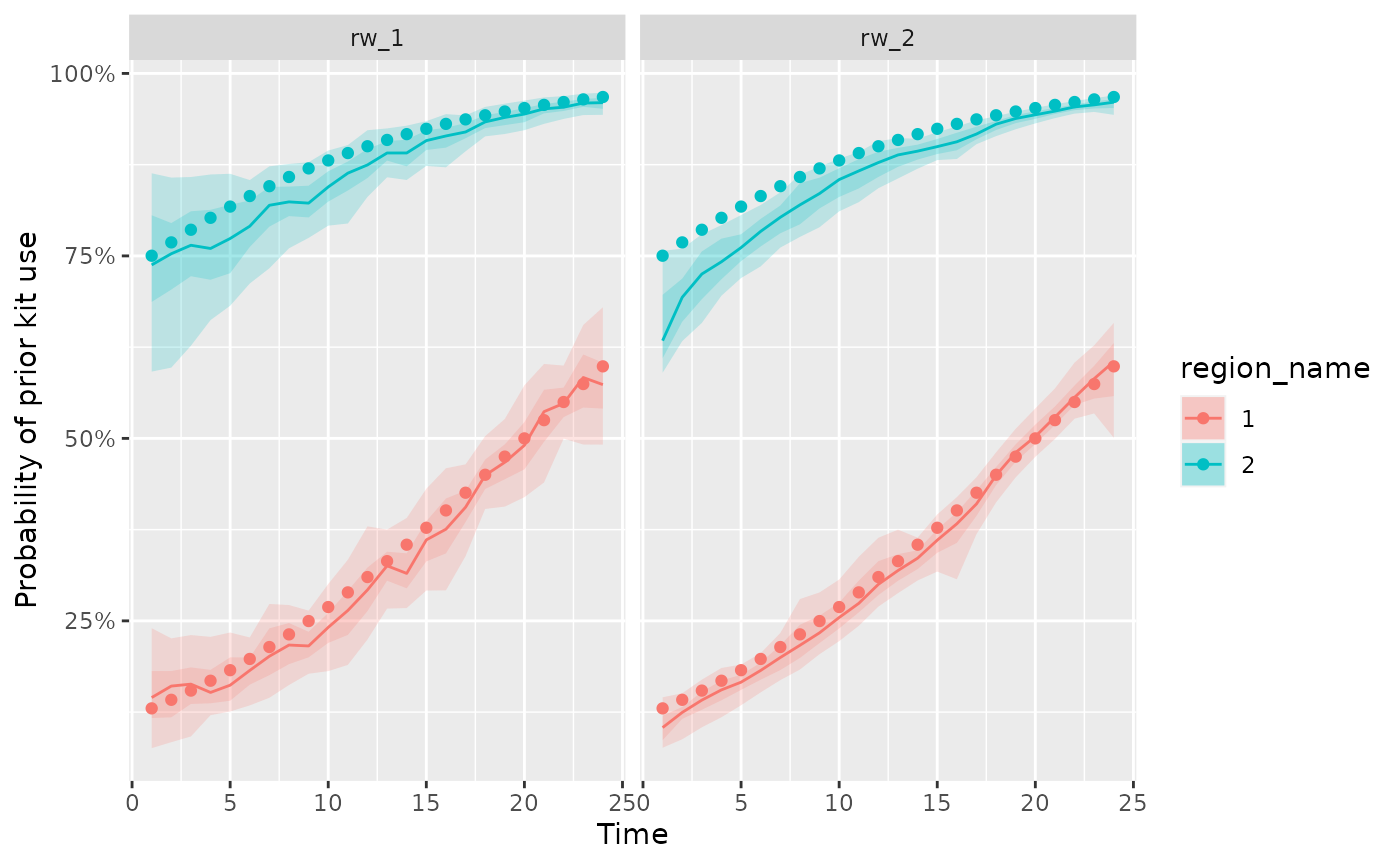
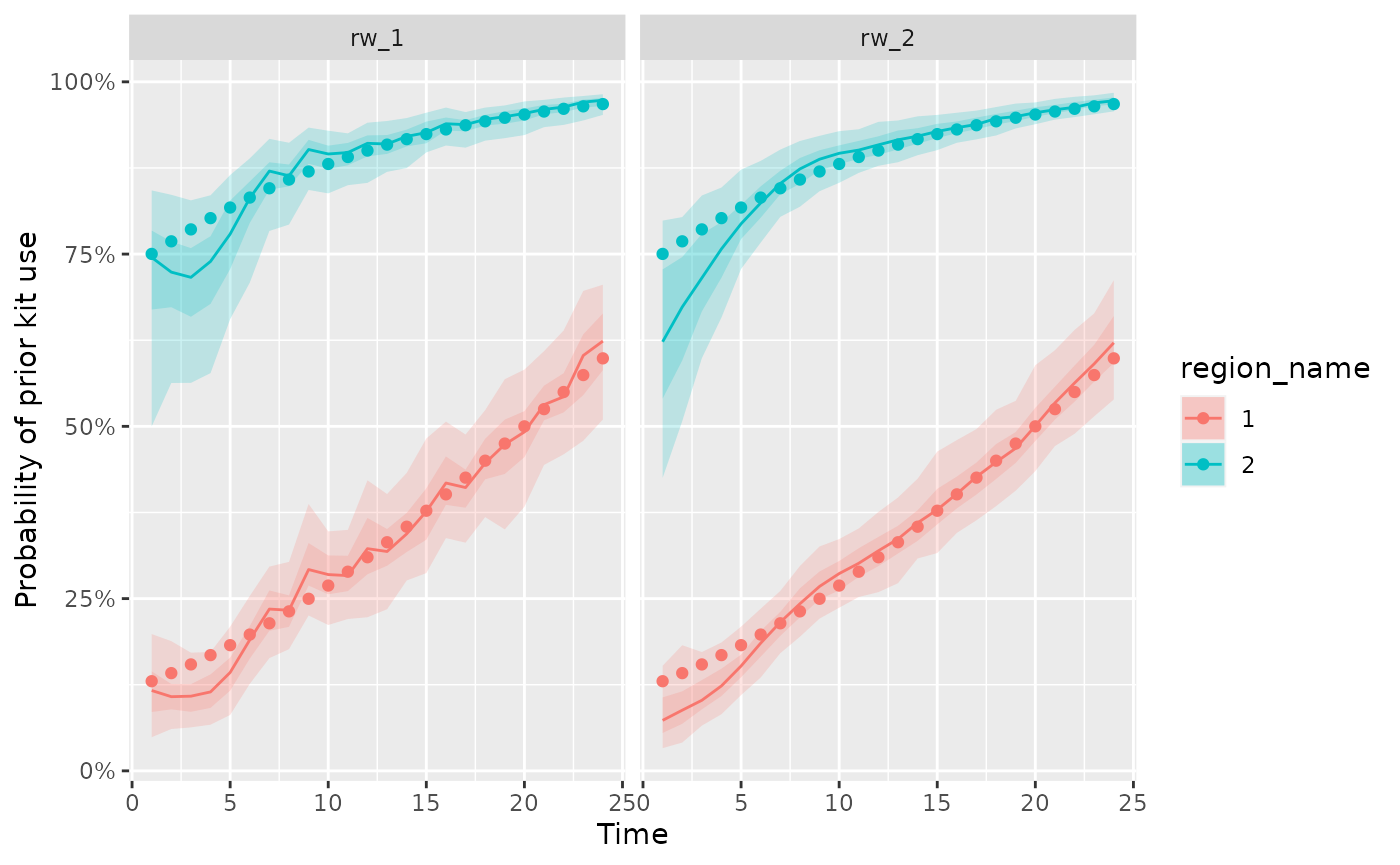
Deploying to gh-pages from @ sempwn/bennu@6ce00d99210b6d67dd7d910215781d94dfb5f930 🚀

diff --git a/articles/Introduction.html b/articles/Introduction.html
@@ -135,9 +135,11 @@
 <span><span class="co">#&gt; <span style="color: #555555;">This warning is displayed once every 8 hours.</span></span></span>
 <span><span class="co">#&gt; <span style="color: #555555;">Call `lifecycle::last_lifecycle_warnings()` to see where this warning was</span></span></span>
 <span><span class="co">#&gt; <span style="color: #555555;">generated.</span></span></span>
-<span><span class="co">#&gt; Warning: There were 39 divergent transitions after warmup. See</span></span>
+<span><span class="co">#&gt; Warning: There were 32 divergent transitions after warmup. See</span></span>
 <span><span class="co">#&gt; https://mc-stan.org/misc/warnings.html#divergent-transitions-after-warmup</span></span>
 <span><span class="co">#&gt; to find out why this is a problem and how to eliminate them.</span></span>
+<span><span class="co">#&gt; Warning: There were 3 chains where the estimated Bayesian Fraction of Missing Information was low. See</span></span>
+<span><span class="co">#&gt; https://mc-stan.org/misc/warnings.html#bfmi-low</span></span>
 <span><span class="co">#&gt; Warning: Examine the pairs() plot to diagnose sampling problems</span></span>
 <span><span class="co">#&gt; Warning: The largest R-hat is NA, indicating chains have not mixed.</span></span>
 <span><span class="co">#&gt; Running the chains for more iterations may help. See</span></span>
@@ -172,18 +174,18 @@
 <span></span>
 <span><span class="fu"><a href="https://mc-stan.org/posterior/reference/draws_summary.html" class="external-link">summarise_draws</a></span><span class="op">(</span><span class="va">fit</span>, <span class="fu"><a href="https://mc-stan.org/posterior/reference/draws_summary.html" class="external-link">default_summary_measures</a></span><span class="op">(</span><span class="op">)</span><span class="op">)</span></span>
 <span><span class="co">#&gt; <span style="color: #949494;"># A tibble: 462 × 7</span></span></span>
-<span><span class="co">#&gt;    variable  mean median    sd   mad    q5    q95</span></span>
-<span><span class="co">#&gt;    <span style="color: #949494; font-style: italic;">&lt;chr&gt;</span>    <span style="color: #949494; font-style: italic;">&lt;num&gt;</span>  <span style="color: #949494; font-style: italic;">&lt;num&gt;</span> <span style="color: #949494; font-style: italic;">&lt;num&gt;</span> <span style="color: #949494; font-style: italic;">&lt;num&gt;</span> <span style="color: #949494; font-style: italic;">&lt;num&gt;</span>  <span style="color: #949494; font-style: italic;">&lt;num&gt;</span></span></span>
-<span><span class="co">#&gt; <span style="color: #BCBCBC;"> 1</span> logp[1]  -<span style="color: #BB0000;">1.78</span>  -<span style="color: #BB0000;">1.82</span> 0.393 0.330 -<span style="color: #BB0000;">2.44</span> -<span style="color: #BB0000;">1.09</span> </span></span>
-<span><span class="co">#&gt; <span style="color: #BCBCBC;"> 2</span> logp[2]  -<span style="color: #BB0000;">1.78</span>  -<span style="color: #BB0000;">1.71</span> 0.352 0.365 -<span style="color: #BB0000;">2.41</span> -<span style="color: #BB0000;">1.30</span> </span></span>
-<span><span class="co">#&gt; <span style="color: #BCBCBC;"> 3</span> logp[3]  -<span style="color: #BB0000;">1.66</span>  -<span style="color: #BB0000;">1.63</span> 0.324 0.281 -<span style="color: #BB0000;">2.31</span> -<span style="color: #BB0000;">1.21</span> </span></span>
-<span><span class="co">#&gt; <span style="color: #BCBCBC;"> 4</span> logp[4]  -<span style="color: #BB0000;">1.67</span>  -<span style="color: #BB0000;">1.72</span> 0.215 0.181 -<span style="color: #BB0000;">1.98</span> -<span style="color: #BB0000;">1.24</span> </span></span>
-<span><span class="co">#&gt; <span style="color: #BCBCBC;"> 5</span> logp[5]  -<span style="color: #BB0000;">1.61</span>  -<span style="color: #BB0000;">1.66</span> 0.254 0.272 -<span style="color: #BB0000;">1.93</span> -<span style="color: #BB0000;">1.20</span> </span></span>
-<span><span class="co">#&gt; <span style="color: #BCBCBC;"> 6</span> logp[6]  -<span style="color: #BB0000;">1.53</span>  -<span style="color: #BB0000;">1.53</span> 0.164 0.145 -<span style="color: #BB0000;">1.80</span> -<span style="color: #BB0000;">1.27</span> </span></span>
-<span><span class="co">#&gt; <span style="color: #BCBCBC;"> 7</span> logp[7]  -<span style="color: #BB0000;">1.35</span>  -<span style="color: #BB0000;">1.37</span> 0.268 0.282 -<span style="color: #BB0000;">1.75</span> -<span style="color: #BB0000;">0.993</span></span></span>
-<span><span class="co">#&gt; <span style="color: #BCBCBC;"> 8</span> logp[8]  -<span style="color: #BB0000;">1.29</span>  -<span style="color: #BB0000;">1.31</span> 0.222 0.264 -<span style="color: #BB0000;">1.67</span> -<span style="color: #BB0000;">0.954</span></span></span>
-<span><span class="co">#&gt; <span style="color: #BCBCBC;"> 9</span> logp[9]  -<span style="color: #BB0000;">1.27</span>  -<span style="color: #BB0000;">1.28</span> 0.102 0.101 -<span style="color: #BB0000;">1.42</span> -<span style="color: #BB0000;">1.10</span> </span></span>
-<span><span class="co">#&gt; <span style="color: #BCBCBC;">10</span> logp[10] -<span style="color: #BB0000;">1.15</span>  -<span style="color: #BB0000;">1.11</span> 0.226 0.182 -<span style="color: #BB0000;">1.56</span> -<span style="color: #BB0000;">0.781</span></span></span>
+<span><span class="co">#&gt;    variable   mean median    sd   mad     q5    q95</span></span>
+<span><span class="co">#&gt;    <span style="color: #949494; font-style: italic;">&lt;chr&gt;</span>     <span style="color: #949494; font-style: italic;">&lt;num&gt;</span>  <span style="color: #949494; font-style: italic;">&lt;num&gt;</span> <span style="color: #949494; font-style: italic;">&lt;num&gt;</span> <span style="color: #949494; font-style: italic;">&lt;num&gt;</span>  <span style="color: #949494; font-style: italic;">&lt;num&gt;</span>  <span style="color: #949494; font-style: italic;">&lt;num&gt;</span></span></span>
+<span><span class="co">#&gt; <span style="color: #BCBCBC;"> 1</span> logp[1]  -<span style="color: #BB0000;">2.11</span>  -<span style="color: #BB0000;">2.07</span>  0.489 0.409 -<span style="color: #BB0000;">2.97</span>  -<span style="color: #BB0000;">1.40</span> </span></span>
+<span><span class="co">#&gt; <span style="color: #BCBCBC;"> 2</span> logp[2]  -<span style="color: #BB0000;">2.12</span>  -<span style="color: #BB0000;">2.14</span>  0.378 0.257 -<span style="color: #BB0000;">2.74</span>  -<span style="color: #BB0000;">1.42</span> </span></span>
+<span><span class="co">#&gt; <span style="color: #BCBCBC;"> 3</span> logp[3]  -<span style="color: #BB0000;">2.19</span>  -<span style="color: #BB0000;">2.13</span>  0.319 0.295 -<span style="color: #BB0000;">2.76</span>  -<span style="color: #BB0000;">1.71</span> </span></span>
+<span><span class="co">#&gt; <span style="color: #BCBCBC;"> 4</span> logp[4]  -<span style="color: #BB0000;">2.15</span>  -<span style="color: #BB0000;">2.12</span>  0.318 0.346 -<span style="color: #BB0000;">2.64</span>  -<span style="color: #BB0000;">1.68</span> </span></span>
+<span><span class="co">#&gt; <span style="color: #BCBCBC;"> 5</span> logp[5]  -<span style="color: #BB0000;">1.85</span>  -<span style="color: #BB0000;">1.83</span>  0.315 0.301 -<span style="color: #BB0000;">2.40</span>  -<span style="color: #BB0000;">1.36</span> </span></span>
+<span><span class="co">#&gt; <span style="color: #BCBCBC;"> 6</span> logp[6]  -<span style="color: #BB0000;">1.50</span>  -<span style="color: #BB0000;">1.44</span>  0.294 0.252 -<span style="color: #BB0000;">2.06</span>  -<span style="color: #BB0000;">1.12</span> </span></span>
+<span><span class="co">#&gt; <span style="color: #BCBCBC;"> 7</span> logp[7]  -<span style="color: #BB0000;">1.11</span>  -<span style="color: #BB0000;">1.11</span>  0.146 0.156 -<span style="color: #BB0000;">1.33</span>  -<span style="color: #BB0000;">0.901</span></span></span>
+<span><span class="co">#&gt; <span style="color: #BCBCBC;"> 8</span> logp[8]  -<span style="color: #BB0000;">1.31</span>  -<span style="color: #BB0000;">1.31</span>  0.127 0.130 -<span style="color: #BB0000;">1.53</span>  -<span style="color: #BB0000;">1.12</span> </span></span>
+<span><span class="co">#&gt; <span style="color: #BCBCBC;"> 9</span> logp[9]  -<span style="color: #BB0000;">0.765</span> -<span style="color: #BB0000;">0.786</span> 0.144 0.169 -<span style="color: #BB0000;">0.967</span> -<span style="color: #BB0000;">0.535</span></span></span>
+<span><span class="co">#&gt; <span style="color: #BCBCBC;">10</span> logp[10] -<span style="color: #BB0000;">0.977</span> -<span style="color: #BB0000;">0.978</span> 0.126 0.141 -<span style="color: #BB0000;">1.18</span>  -<span style="color: #BB0000;">0.770</span></span></span>
 <span><span class="co">#&gt; <span style="color: #949494;"># ℹ 452 more rows</span></span></span></code></pre></div>
 <p>We can compare two different model fits of the probability of prior
 kit use to simulated data using the <code>plot_kit_use</code>
@@ -246,11 +248,9 @@ probability of naloxone use in time.</p>
 <span><span class="va">rw2_fit</span> <span class="op">&lt;-</span> <span class="fu"><a href="../reference/est_naloxone.html">est_naloxone</a></span><span class="op">(</span><span class="va">d</span>,</span>
 <span>                    rw_type <span class="op">=</span> <span class="fl">2</span>,</span>
 <span>                    iter<span class="op">=</span><span class="fl">100</span><span class="op">)</span></span>
-<span><span class="co">#&gt; Warning: There were 99 divergent transitions after warmup. See</span></span>
+<span><span class="co">#&gt; Warning: There were 17 divergent transitions after warmup. See</span></span>
 <span><span class="co">#&gt; https://mc-stan.org/misc/warnings.html#divergent-transitions-after-warmup</span></span>
 <span><span class="co">#&gt; to find out why this is a problem and how to eliminate them.</span></span>
-<span><span class="co">#&gt; Warning: There were 4 transitions after warmup that exceeded the maximum treedepth. Increase max_treedepth above 10. See</span></span>
-<span><span class="co">#&gt; https://mc-stan.org/misc/warnings.html#maximum-treedepth-exceeded</span></span>
 <span><span class="co">#&gt; Warning: There were 1 chains where the estimated Bayesian Fraction of Missing Information was low. See</span></span>
 <span><span class="co">#&gt; https://mc-stan.org/misc/warnings.html#bfmi-low</span></span>
 <span><span class="co">#&gt; Warning: Examine the pairs() plot to diagnose sampling problems</span></span>
@@ -272,16 +272,16 @@ probability of naloxone use in time.</p>
 <span><span class="co">#&gt; <span style="color: #949494;"># A tibble: 462 × 4</span></span></span>
 <span><span class="co">#&gt;    variable  rhat ess_bulk ess_tail</span></span>
 <span><span class="co">#&gt;    <span style="color: #949494; font-style: italic;">&lt;chr&gt;</span>    <span style="color: #949494; font-style: italic;">&lt;num&gt;</span>    <span style="color: #949494; font-style: italic;">&lt;num&gt;</span>    <span style="color: #949494; font-style: italic;">&lt;num&gt;</span></span></span>
-<span><span class="co">#&gt; <span style="color: #BCBCBC;"> 1</span> logp[1]   1.59    14.9     62.1 </span></span>
-<span><span class="co">#&gt; <span style="color: #BCBCBC;"> 2</span> logp[2]   1.62    39.0     71.9 </span></span>
-<span><span class="co">#&gt; <span style="color: #BCBCBC;"> 3</span> logp[3]   1.78    11.0     59.3 </span></span>
-<span><span class="co">#&gt; <span style="color: #BCBCBC;"> 4</span> logp[4]   1.73     9.33    52.1 </span></span>
-<span><span class="co">#&gt; <span style="color: #BCBCBC;"> 5</span> logp[5]   1.90    10.0     50.1 </span></span>
-<span><span class="co">#&gt; <span style="color: #BCBCBC;"> 6</span> logp[6]   1.59    10.9     52.6 </span></span>
-<span><span class="co">#&gt; <span style="color: #BCBCBC;"> 7</span> logp[7]   1.76     7.53    16.5 </span></span>
-<span><span class="co">#&gt; <span style="color: #BCBCBC;"> 8</span> logp[8]   2.13     6.76    15.2 </span></span>
-<span><span class="co">#&gt; <span style="color: #BCBCBC;"> 9</span> logp[9]   2.01     6.78     6.01</span></span>
-<span><span class="co">#&gt; <span style="color: #BCBCBC;">10</span> logp[10]  1.86     7.10    23.1 </span></span>
+<span><span class="co">#&gt; <span style="color: #BCBCBC;"> 1</span> logp[1]   1.14     21.8     90.2</span></span>
+<span><span class="co">#&gt; <span style="color: #BCBCBC;"> 2</span> logp[2]   1.17     19.0     37.0</span></span>
+<span><span class="co">#&gt; <span style="color: #BCBCBC;"> 3</span> logp[3]   1.12     26.3    101. </span></span>
+<span><span class="co">#&gt; <span style="color: #BCBCBC;"> 4</span> logp[4]   1.23     24.5     52.8</span></span>
+<span><span class="co">#&gt; <span style="color: #BCBCBC;"> 5</span> logp[5]   1.12     48.9     85.8</span></span>
+<span><span class="co">#&gt; <span style="color: #BCBCBC;"> 6</span> logp[6]   1.04     70.9    119. </span></span>
+<span><span class="co">#&gt; <span style="color: #BCBCBC;"> 7</span> logp[7]   1.05     83.0    184. </span></span>
+<span><span class="co">#&gt; <span style="color: #BCBCBC;"> 8</span> logp[8]   1.23     15.0     50.5</span></span>
+<span><span class="co">#&gt; <span style="color: #BCBCBC;"> 9</span> logp[9]   1.06     58.5    101. </span></span>
+<span><span class="co">#&gt; <span style="color: #BCBCBC;">10</span> logp[10]  1.06     65.3    192. </span></span>
 <span><span class="co">#&gt; <span style="color: #949494;"># ℹ 452 more rows</span></span></span></code></pre></div>
 <p>We can compare two different model fits of the probability of prior
 kit use to simulated data using the <code>plot_kit_use</code>
@@ -310,9 +310,13 @@ months</p>
 <code class="sourceCode R"><span><span class="va">missing_fit</span> <span class="op">&lt;-</span> <span class="fu"><a href="../reference/est_naloxone.html">est_naloxone</a></span><span class="op">(</span><span class="va">d_missing</span>,</span>
 <span>                    rw_type <span class="op">=</span> <span class="fl">2</span>,</span>
 <span>                    iter<span class="op">=</span><span class="fl">100</span><span class="op">)</span></span>
-<span><span class="co">#&gt; Warning: There were 9 divergent transitions after warmup. See</span></span>
+<span><span class="co">#&gt; Warning: There were 4 divergent transitions after warmup. See</span></span>
 <span><span class="co">#&gt; https://mc-stan.org/misc/warnings.html#divergent-transitions-after-warmup</span></span>
 <span><span class="co">#&gt; to find out why this is a problem and how to eliminate them.</span></span>
+<span><span class="co">#&gt; Warning: There were 2 transitions after warmup that exceeded the maximum treedepth. Increase max_treedepth above 10. See</span></span>
+<span><span class="co">#&gt; https://mc-stan.org/misc/warnings.html#maximum-treedepth-exceeded</span></span>
+<span><span class="co">#&gt; Warning: There were 1 chains where the estimated Bayesian Fraction of Missing Information was low. See</span></span>
+<span><span class="co">#&gt; https://mc-stan.org/misc/warnings.html#bfmi-low</span></span>
 <span><span class="co">#&gt; Warning: Examine the pairs() plot to diagnose sampling problems</span></span>
 <span><span class="co">#&gt; Warning: The largest R-hat is NA, indicating chains have not mixed.</span></span>
 <span><span class="co">#&gt; Running the chains for more iterations may help. See</span></span>

diff --git a/news/index.html b/news/index.html
@@ -58,7 +58,7 @@
     </div>
 
     <div class="section level2">
-<h2 class="page-header" data-toc-text="0.3.0" id="bennu-030">bennu 0.3.0<a class="anchor" aria-label="anchor" href="#bennu-030"></a></h2>
+<h2 class="page-header" data-toc-text="0.3.0" id="bennu-030">bennu 0.3.0<small>2023-09-13</small><a class="anchor" aria-label="anchor" href="#bennu-030"></a></h2>
 <ul><li><p><code>kit_summary_table</code> created to provide a quick way of summarizing model output by different strata</p></li>
 <li><p><code>model_random_walk_data</code> created to more closely mimic Bayesian data generating process</p></li>
 <li><p><code>generate_model_data</code> deprecated as <code>model_random_walk_data</code> will supplant it as way of generating simulation data to test properties of the model</p></li>
